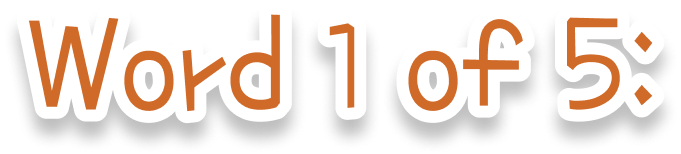
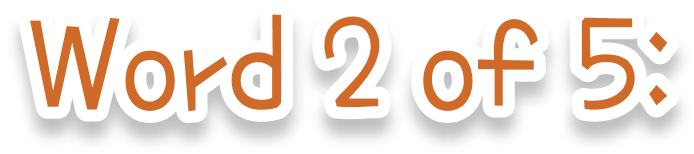
feat (GameScreenController): Implemented most functions required. Bugs are present and have yet to be fixed.

diff --git a/src/main/java/com/se206/g11/screens/GameScreenController.java b/src/main/java/com/se206/g11/screens/GameScreenController.java
@@ -1,5 +1,6 @@
 package com.se206.g11.screens;
 import java.net.URL;
+import java.util.List;
 import java.util.ResourceBundle;
 
 import java.io.FileNotFoundException;
@@ -14,9 +15,15 @@ import javafx.fxml.FXML;
 import javafx.fxml.Initializable;
 import javafx.scene.control.TextField;
 import javafx.scene.image.ImageView;
+import javafx.scene.input.MouseEvent;
 
 public class GameScreenController extends ApplicationController implements Initializable {
-    private int wordIndex;
+    //Index of current word
+    private int wordIndex = 0;
+    //The words the user is to be tested on
+    private List<Word> words;
+    private boolean faulted = false;
+    private boolean disabled = false;
 
     @FXML
     private TextField inputTextField;
@@ -26,16 +33,51 @@ public class GameScreenController extends ApplicationController implements Initi
     private ImageView progressBar;
     @FXML
     private ImageView hear_button;
+    @FXML
+    private ImageView settings_button;
+    @FXML
+    private ImageView submit_button;
+    @FXML
+    private ImageView skip_button;
 
-    public void inputTextField(){
-
+    //// Helper Functions ////
+    /**
+     * Loads the next word for a user ot be tested on, simplifying the code elsewhere.
+     * Functions:
+     * - Resets variable for checking a fault
+     * - Lodas the next word, clearing the textbox and relevant labels
+     * - If no words are left, go to next screen.
+     */
+    private void __loadNextWord() {
+        this.faulted = false;
+        Word currWord = this.words.get(this.wordIndex);
+        //Check if we have words left
+        if (this.wordIndex < this.words.size() -1) {
+            this.wordIndex++;
+            this.inputTextField.clear();
+            this.__hearAgain(1);
+        } else {
+            this.__disableQuiz();
+            //Quiz finished, go to rewards screen?
+            //TODO
+        }
+    }
+    
+    /**
+     * Read a word to the user. Does not support language selection as this is not needed for A3.
+     * @param repeats number of times to repeat the word to the user, minimum is 1.
+     */
+    private void __hearAgain(int repeats) {
+        if (this.disabled) return;
+        //SAFTEY: We have already validated that we are at a currently valid word, so a null pointer check isn't needed (or out of bounds check).
+        SystemInterface.readWord(this.words.get(this.wordIndex).getMaori(), 1);
     }
 
     /**
      * Set the progress bar to a certain stage
      * @param i limited from 0-5, will set to level of completion based on provided value
      */
-    private void updateProgressBar(Integer i) {
+    private void __updateProgressBar(int i) {
         try {
             setImage(i, progressBar);
         } catch (FileNotFoundException e) {
@@ -43,7 +85,10 @@ public class GameScreenController extends ApplicationController implements Initi
         }
     }
 
-    private void updateWordIndexBanner() {
+    /**
+     * Update the word index with the current value :)
+     */
+    private void __updateWordIndexBanner() {
         try {
             setImage(wordIndex, wordIndexBanner);
         } catch (FileNotFoundException exception){
@@ -51,38 +96,80 @@ public class GameScreenController extends ApplicationController implements Initi
         }
     }
 
-    private void testWord(){
-        if (MainApp.getWordList().isEmpty()){
-            //game finished
-        } else {
-            //continue game
-            //update word banner
-            updateWordIndexBanner();
+    /**
+     * Disable the quiz, due to an error or completion
+     */
+    private void __disableQuiz() {
+        this.disabled = true;
+        inputTextField.setDisable(true);
+    }
 
-            //retrieve word
-            String word;
-            
-            word = MainApp.popWord(Language.MAORI);
-            System.out.println(word);
-            
-            //attempt to test next word
-            wordIndex++;
-            testWord();
+    //// Button Handlers ////
+    
+    /**
+     * Handler for the submit button
+     */
+    public void submitWordClick() {
+        if (this.disabled) return;
+        //check if they got the word right
+        Word input = new Word();
+        String t = inputTextField.getText();
+        System.out.println("User wrote: " + t);
+        input.setMaori(inputTextField.getText()); //Note: our Word implementation automatically strips and lowercases input
+
+        if (this.words.get(this.wordIndex).isEqualLazy(input)) {
+            //Correct
+            int score = MainApp.getScore() + 1;
+            this.__updateProgressBar(score);
+            MainApp.setScore(score);
+            //TODO specific actions for faulted words?
+        } else {
+            if (!this.faulted) {
+                //First attempt wrong
+                this.__hearAgain(2);
+                this.faulted = true;
+                //TODO show them second letter
+            } else {
+                //Second attempt wrong
+                this.__loadNextWord();
+            }
         }
+    }
+
+    /**
+     * Handler for the skip button
+     */
+    public void skipWordClick() {
+        if (this.disabled) return;
+        this.__loadNextWord();
+    }
+
+    /**
+     * Handler for the settings button
+     */
+    public void settingsClick() {
+        //TODO, not sure how we want to implement this? Modals?
     }
 
     @Override
     public void initialize(URL url, ResourceBundle rb) {
-        super.initialize();        
+        super.initialize();       
 
-        //retrieve word
-        String word;
-        word = MainApp.popWord(Language.MAORI);
-        System.out.println(word);
-        SystemInterface.readWord("Please spell:");
-        SystemInterface.readWord(word, Language.MAORI);  
+        //Load words from the MainApp
+        this.words = MainApp.getWordList();
+        if (this.words.size() == 0) {
+            this.__disableQuiz();
+            System.err.println("Unable to load words! Cannot start quiz");
+            //TODO add popup
+        } else {
+            this.__hearAgain(1);
+            this.__updateWordIndexBanner();
+        }
 
-        wordIndex = 1;
-        testWord();
+        //initalize event handlers for buttons
+        hear_button.addEventHandler(MouseEvent.MOUSE_CLICKED, _event -> __hearAgain(1));
+        settings_button.addEventHandler(MouseEvent.MOUSE_CLICKED, _event -> settingsClick());
+        submit_button.addEventHandler(MouseEvent.MOUSE_CLICKED, _event -> submitWordClick());
+        skip_button.addEventFilter(MouseEvent.MOUSE_CLICKED, _event -> skipWordClick());
     }    
 }

diff --git a/src/main/java/com/se206/g11/MainApp.java b/src/main/java/com/se206/g11/MainApp.java
@@ -6,6 +6,7 @@ import javafx.scene.Parent;
 import javafx.scene.Scene;
 import javafx.stage.Stage;
 import java.util.ArrayList;
+import java.util.List;
 import java.io.IOException;
 
 import com.se206.g11.models.Language;
@@ -17,7 +18,7 @@ public class MainApp extends Application {
 
     private static SpellingTopic chosenTopic;
     private static int score;
-    private static ArrayList<Word> wordList;
+    private static List<Word> wordList;
 
     //// Private (helper) methods ////
     private static void __setRoot(String fxml, String title, Integer delay) {
@@ -36,25 +37,29 @@ public class MainApp extends Application {
     }
 
     //// Public Methods ////
-
     public static void setTopic(SpellingTopic topic) throws IOException {
         chosenTopic = topic;
-        wordList = (ArrayList<Word>) SystemInterface.getWords(5, chosenTopic.getPath());
+        wordList = SystemInterface.getWords(5, chosenTopic.getPath());
     }
 
-    public static ArrayList<Word> getWordList() {
+    public static List<Word> getWordList() {
         return wordList;
     }
 
-    public static String popWord(Language language) {
-        if (wordList.size() < 1) System.err.println("Attempted to pop word when no words available!");
-        Word word = wordList.remove(0);
-        return (language == Language.ENGLISH) ? word.getEnglish() : word.getMaori();
+    /**
+     * Set the current score of the player to a new value
+     * @param i score to be set
+     */
+    public static void setScore(int i) {
+        score = i;
     }
-    
-    public static Word popWord() throws Exception {
-        if (wordList.size() < 1) System.err.println("Attempted to pop word when no words available!");
-        return wordList.remove(0);
+
+    /**
+     * Get the current score of the player.
+     * @return
+     */
+    public static int getScore() {
+        return score;
     }
 
     @Override

diff --git a/src/main/java/com/se206/g11/SystemInterface.java b/src/main/java/com/se206/g11/SystemInterface.java
@@ -44,7 +44,7 @@ public class SystemInterface {
         String wordCommand = "\"(SayText \\\"" + word +"\\\")\"";
         Thread t = new Thread(() -> {
             try {
-                for (int i = 0; i<= repeats; i++) {
+                for (int i = 0; i < Integer.max(repeats, 1); i++) {
                     ProcessBuilder c = new ProcessBuilder("/bin/bash", "-c", "echo \"(" + langCommand + ")\" " + wordCommand + " | festival");  
                     Process p = c.start();
                     p.waitFor();
@@ -84,16 +84,16 @@ public class SystemInterface {
     *    @param word The word or phrase to be read to the user
     */
     public static void readWord(String word) {
-        __readWord(word, 0, Language.ENGLISH);
+        __readWord(word, 1, Language.ENGLISH);
     }
 
     /** 
     *    Reads a word to a user utilising festival
     *    @param word The word or phrase to be read to the user
-    *    @param language The language to which words are read out using
+    *    @param i The language to which words are read out using
     */
     public static void readWord(String word, Language language) {
-        __readWord(word, 0, language);
+        __readWord(word, 1, language);
     }
 
     /**

diff --git a/src/main/java/com/se206/g11/models/Word.java b/src/main/java/com/se206/g11/models/Word.java
@@ -73,4 +73,20 @@ public class Word {
     public String getMaori() {
         return this.maori;
     }
+
+    /**
+     * Set the english word translation for this word
+     * @param s the word to set
+     */
+    public void setEnglish(String s) {
+        this.english = s.strip().toLowerCase();
+    }
+
+    /**
+     * Set the maori word translation for this word
+     * @param s the word to set
+     */
+    public void setMaori(String s) {
+        this.maori = s.strip().toLowerCase();
+    }
 }
